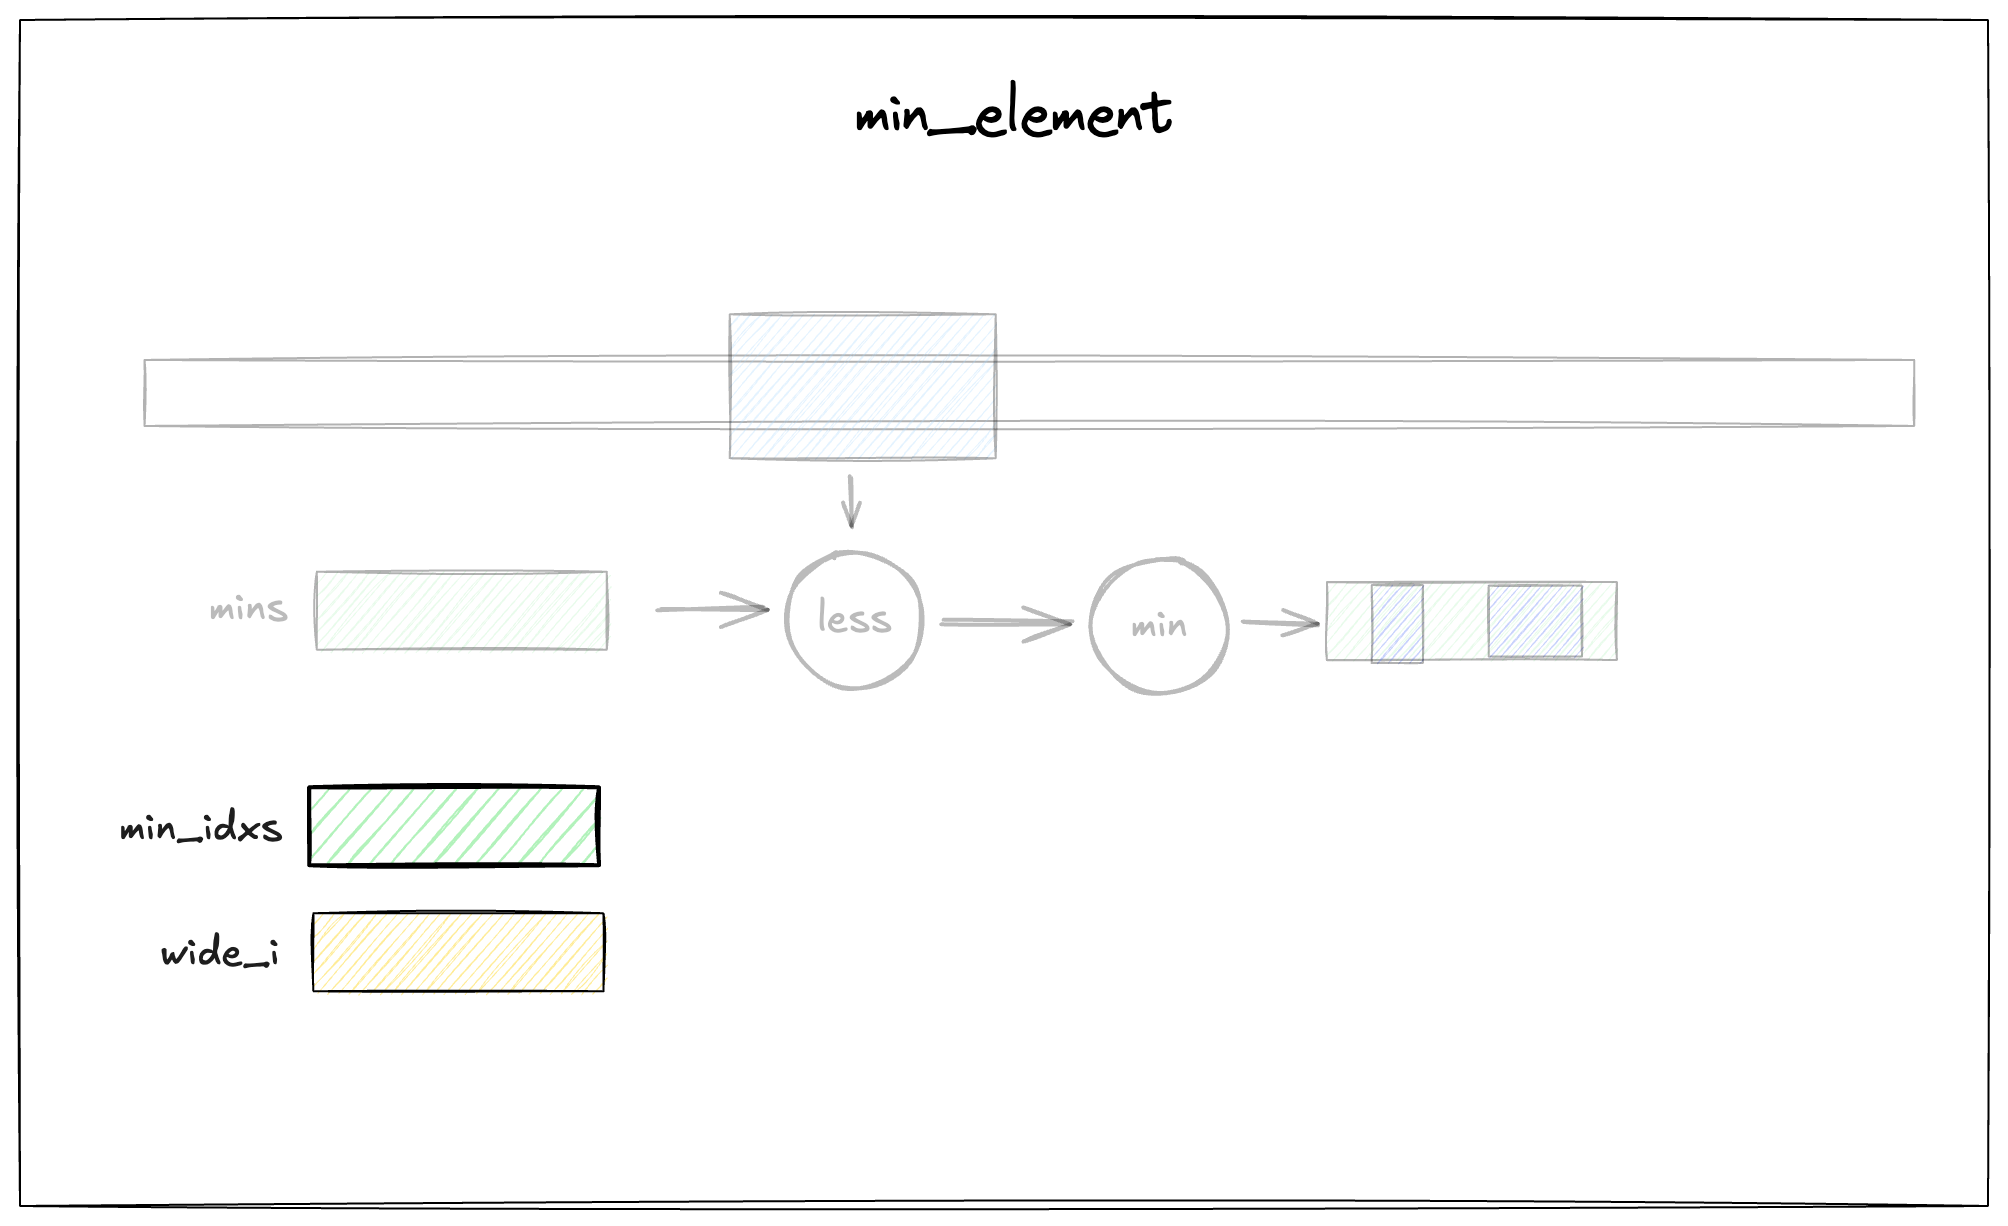
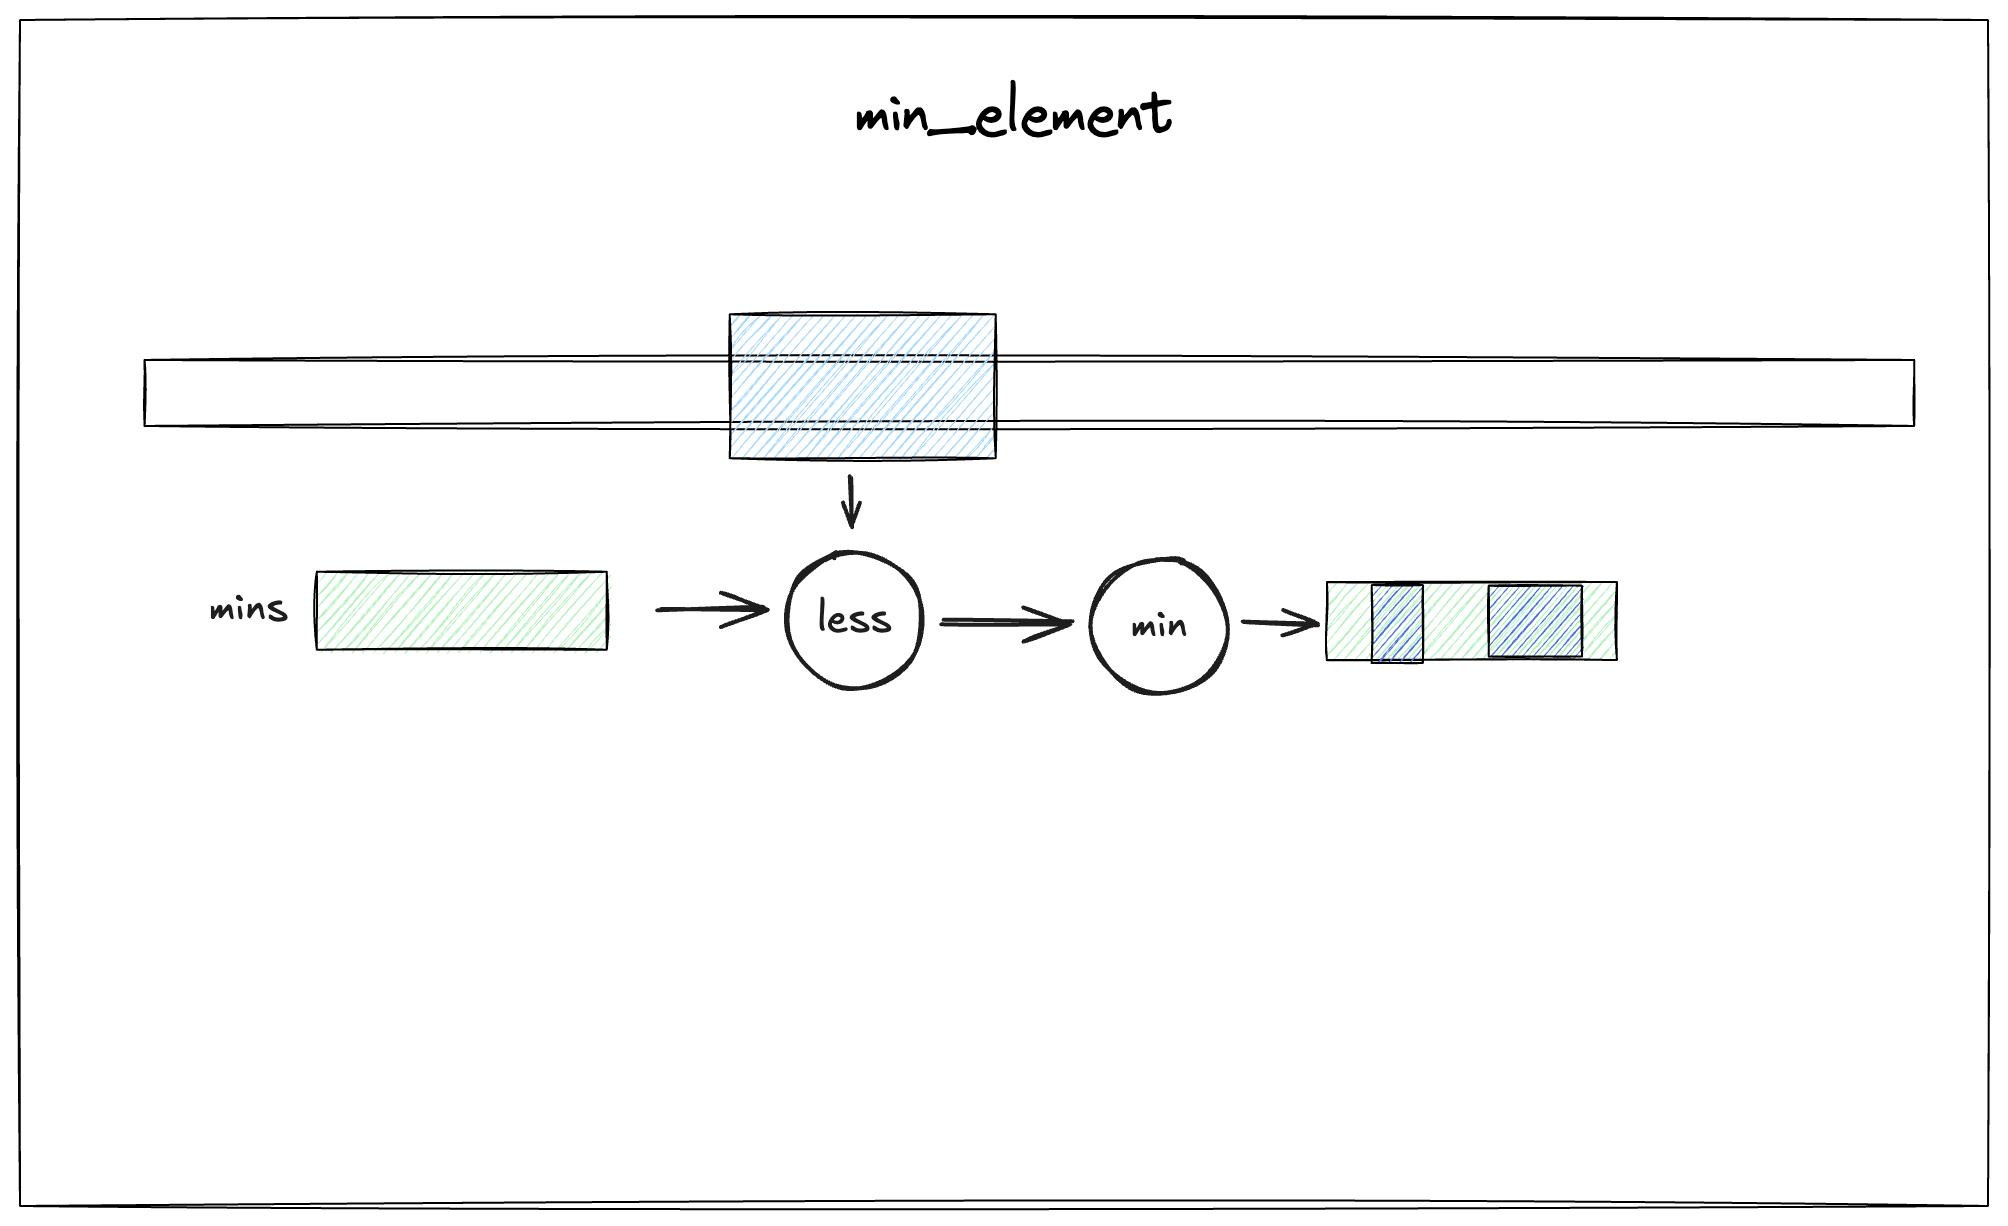
reduce min element

diff --git a/dyaroshev_presentations/conference_talks/from_simd_wrappers_1.html b/dyaroshev_presentations/conference_talks/from_simd_wrappers_1.html
@@ -80,12 +80,6 @@
         </script>
       </section>
       <section>
-        <h2> Notes </h2>
-        <ul>
-          <li class="fragment"> std::mismatch - Nikolas Klauser </li>
-        </ul>
-      </section>
-      <section>
         <h2> eve library </h2>
         <ul>
           <li class="fragment"> <a href="https://github.com/jfalcou/eve">
@@ -317,10 +311,16 @@
             handling </li>
           <li class="fragment"> Aligned loads tail handling </li>
           <li class="fragment"> Registers can contain garbage </li>
+        </ul>
+      </section>
+      <section>
+        <h3> memcmp/memchr/strlen acknowledgements </h3>
+        <ul>
           <li class="fragment"> <a
               href="https://stackoverflow.com/questions/25566302/vectorized-strlen-getting-away-with-reading-unallocated-memory">
               Stephen Canon (Stack Overflow)</a></li>
           <li class="fragment"> glibc </li>
+          <li class="fragment"> std::mismatch - Nikolas Klauser </li>
         </ul>
       </section>
       <section>
@@ -434,6 +434,55 @@
         <ul>
           <li class="fragment"> std::reduce(rng, min) </li>
           <li class="fragment"> reduce + find </li>
+        </ul>
+      </section>
+      <section id="from_simd_wrappers_1/min_element">
+        <script> imagesSlideShow("from_simd_wrappers_1/min_element", 7); </script>
+      </section>
+      <section>
+        <h3> index overflows </h3>
+        <ul>
+          <li class="fragment"> index types </li>
+          <li class="fragment"> avoid redoing tails </li>
+        </ul>
+      </section>
+      <section>
+        <section id='min: int'>
+          <script>
+            addBenchmarkForParameters('min: int',
+              'min: int (10000)',
+              {
+                name: 'min',
+                size: 10000,
+                group: 'avx2+bmi',
+                algorithm: 'selection',
+                type: 'int',
+                time: 'y',
+                padding: 'min',
+              },
+              ['std::min_element', 'eve::algo::min']);
+          </script>
+        </section>
+      </section>
+      <section>
+        <h3> min_element conclusions </h3>
+        <ul>
+          <li class="fragment"> index handling </li>
+          <li class="fragment"> writing a loop is difficult </li>
+        </ul>
+      </section>
+      <section>
+        <h3> min_element acknowledgements</h3>
+        <ul>
+          <li class="fragment"> <a
+              href="https://stackoverflow.com/a/70813588/5021064">Peter Cordes
+              on two iterations</a> </li>
+          <li class="fragment"> <a
+              href="http://0x80.pl/notesen/2018-10-03-simd-index-of-min.html">
+              Wojciech Muła </a></li>
+          <li class="fragment"> <a
+              href="https://github.com/microsoft/STL/blob/a8888806c6960f1687590ffd4244794c753aa819/stl/src/vector_algorithms.cpp#L861-L1065">
+              Alex Guteniev min_element in MSVC</a></li>
         </ul>
       </section>
     </div>
